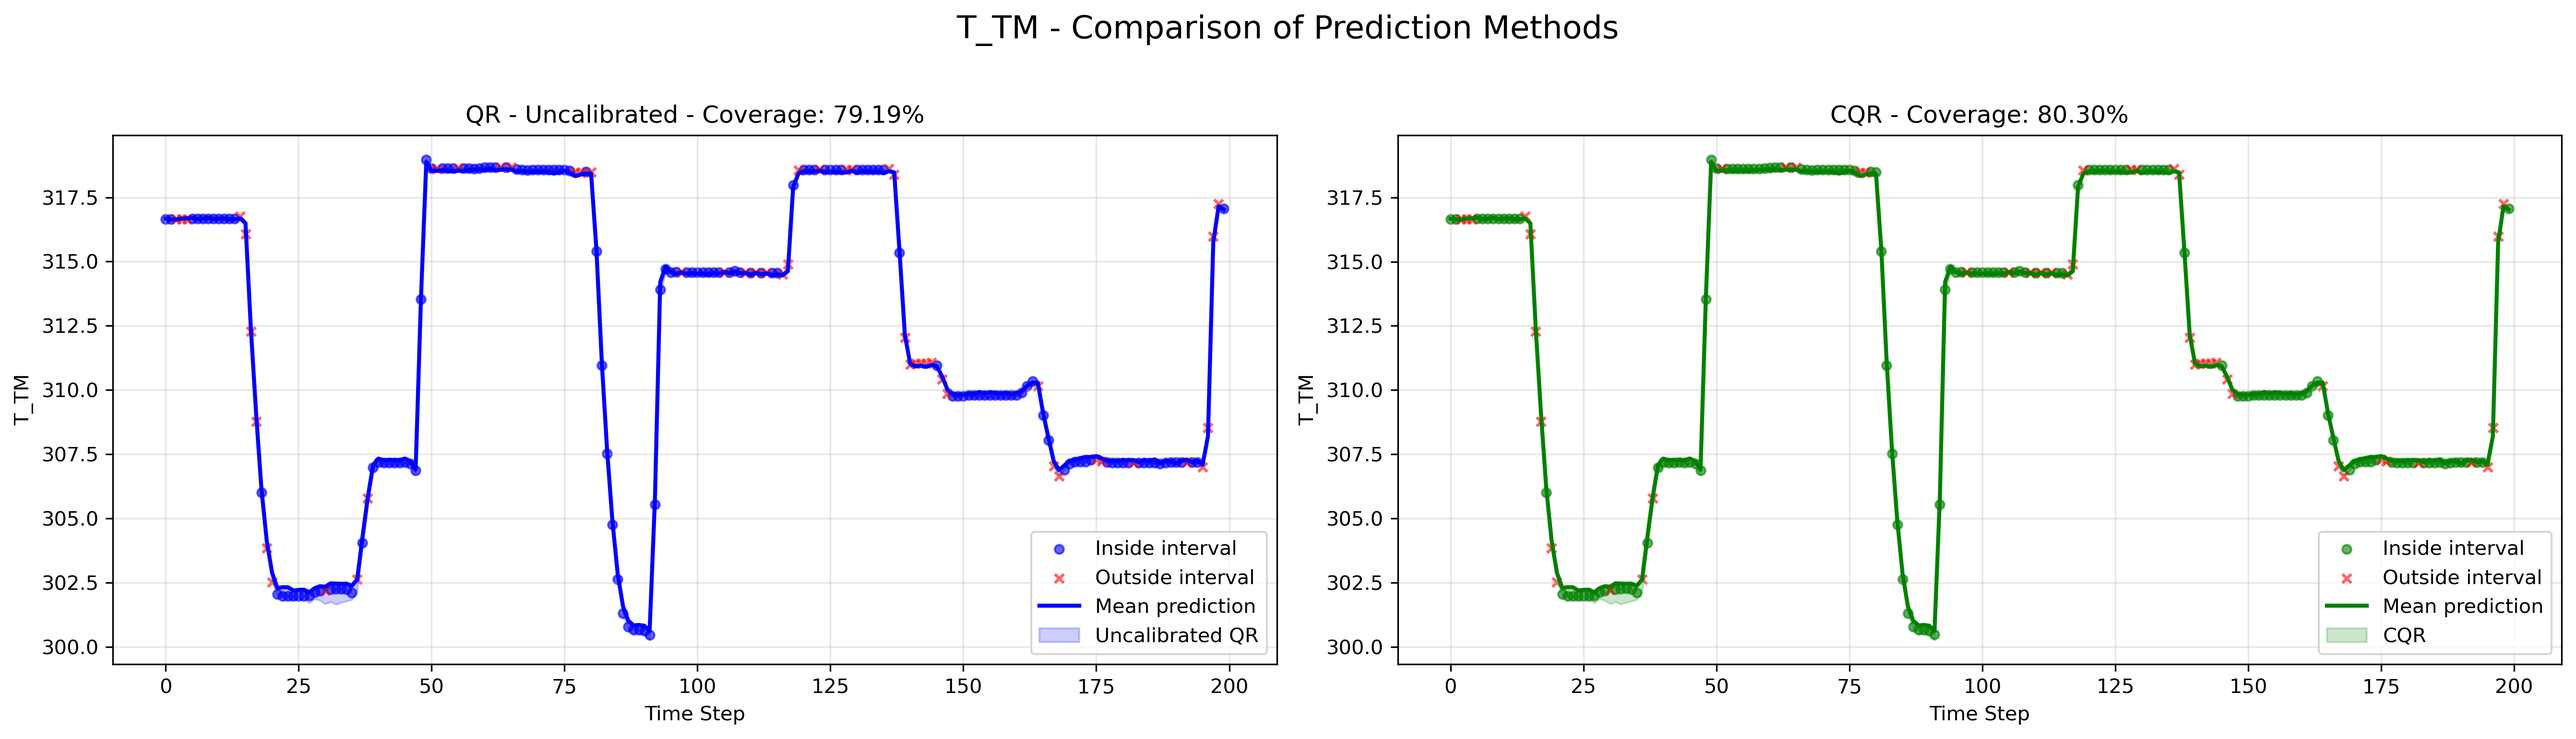
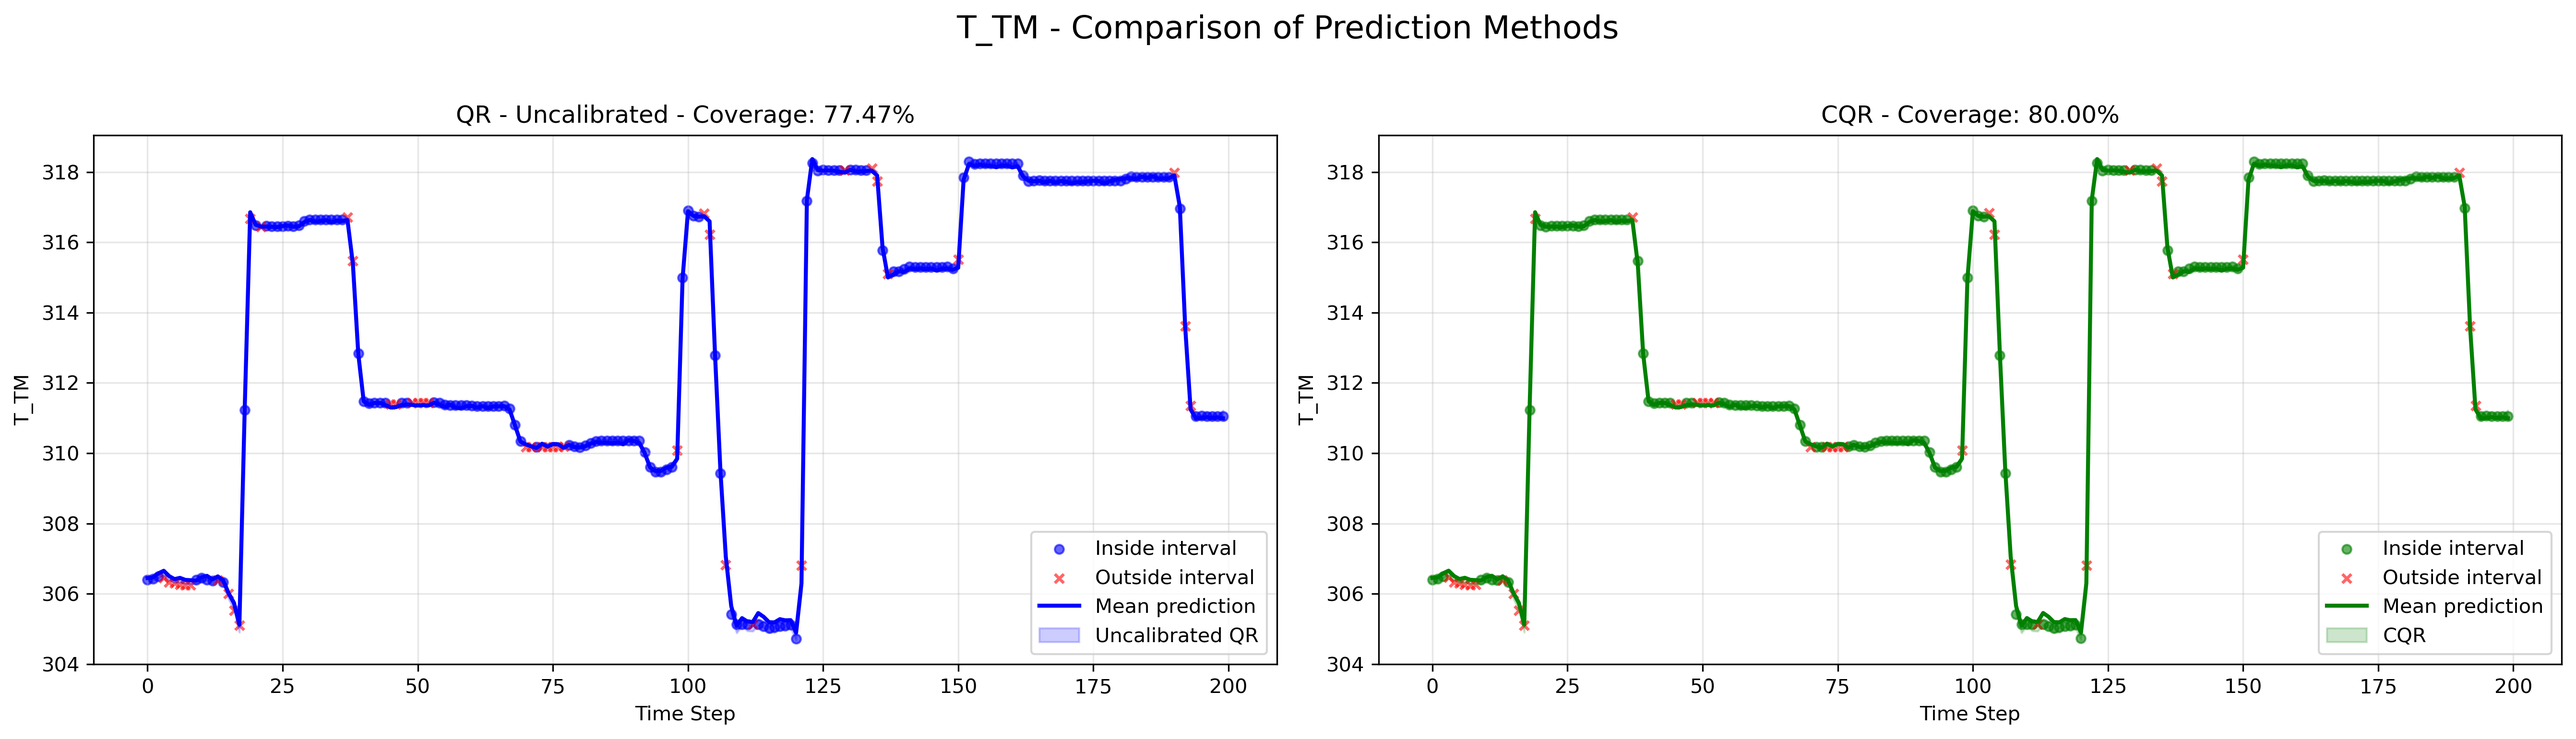
Update plots

diff --git a/tools/cqr/cqr_simple.py b/tools/cqr/cqr_simple.py
@@ -108,7 +108,7 @@ def generate_error_dataset(model, data_files, window_size, scaler):
     print(f"Generated {len(all_inputs)} error samples")
     return np.array(all_inputs), {k: np.array(v) for k, v in all_errors.items()}
 
-def train_quantile_regressor(inputs, errors, tau, epochs=40, batch_size=64, lr=1e-3):
+def train_quantile_regressor(inputs, errors, tau, epochs=30, batch_size=64, lr=1e-3):
     dataset = ErrorDataset(inputs, errors)
     dataloader = DataLoader(dataset, batch_size=batch_size, shuffle=True)
     
@@ -357,7 +357,7 @@ def run_cqr_pipeline(model_path, data_path, results_dir, window_size):
     
     # Load data files and split
     data_files = [os.path.join(data_path, f) for f in os.listdir(data_path) if f.endswith(".txt")]
-    train_files, temp_files = train_test_split(data_files, test_size=0.2, random_state=SEED)
+    train_files, temp_files = train_test_split(data_files, test_size=0.3, random_state=SEED)
     cal_files, test_files = train_test_split(temp_files, test_size=0.5, random_state=SEED)
     
     print(f"Training: {len(train_files)} files")
